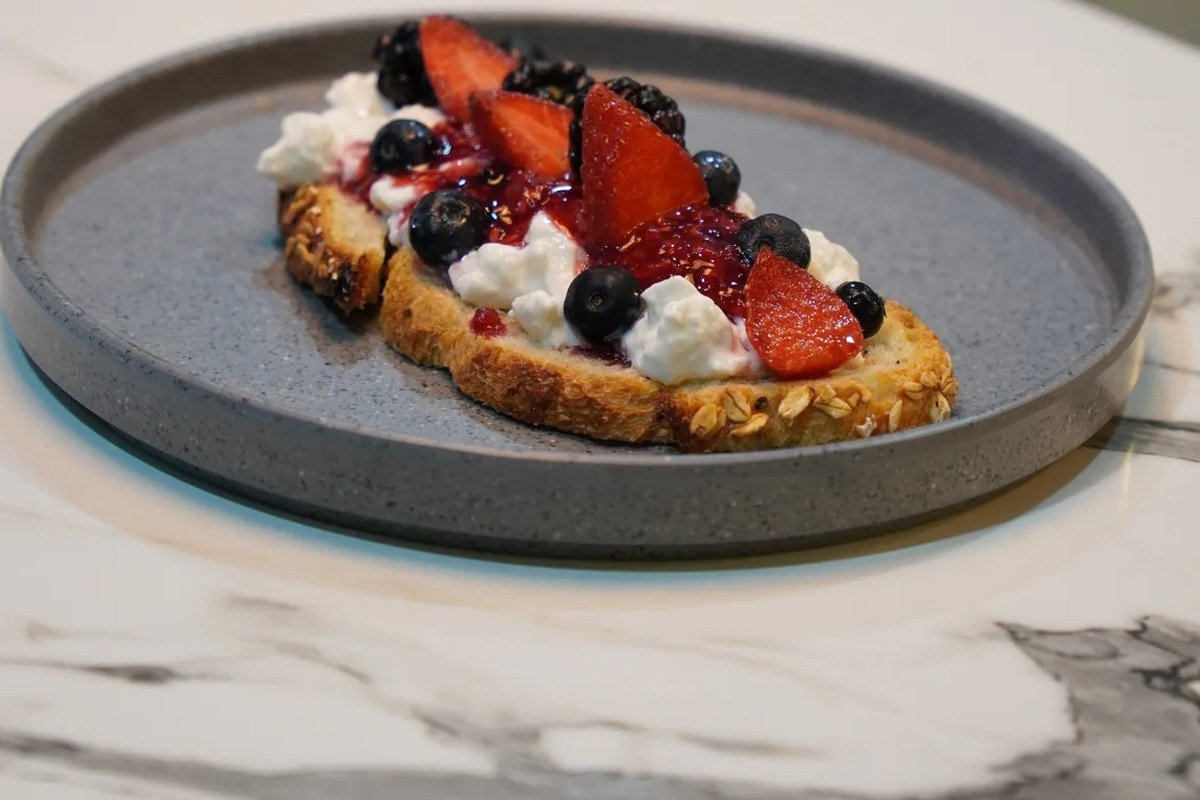
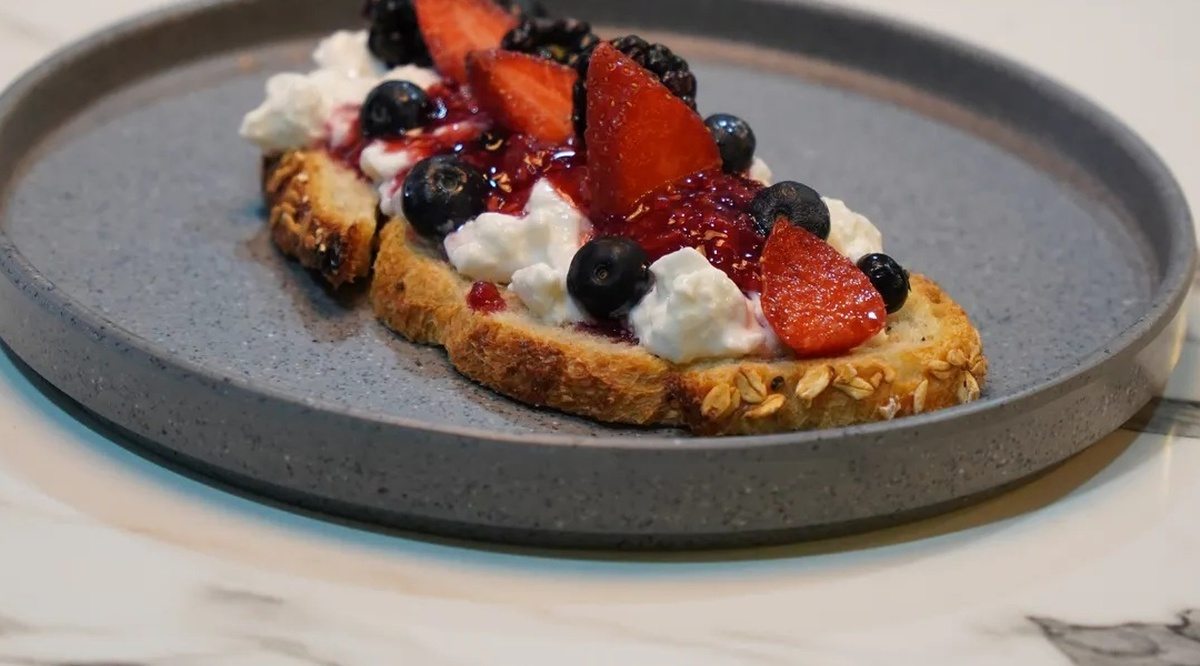
Centrar y encuadrar platillo de Toasts en el rectangulo del menu

diff --git a/cafeteria.html b/cafeteria.html
@@ -175,7 +175,7 @@
 
             <!-- Toasts -->
             <div class="menu-card">
-                <div class="menu-card-img" style="background-image: url('/static/images/menu/toasts.jpg?v=2');"></div>
+                <div class="menu-card-img" style="background-image: url('/static/images/menu/toasts.jpg?v=3');"></div>
                 <div class="menu-card-body">
                     <h3><span class="emoji-icon"><svg width="22" height="22" viewBox="0 0 24 24" fill="none" stroke="currentColor" stroke-width="2" stroke-linecap="round" stroke-linejoin="round"><path d="M18 8h1a4 4 0 0 1 0 8h-1"></path><path d="M2 8h16v9a4 4 0 0 1-4 4H6a4 4 0 0 1-4-4V8z"></path><line x1="6" y1="1" x2="6" y2="4"></line><line x1="10" y1="1" x2="10" y2="4"></line><line x1="14" y1="1" x2="14" y2="4"></line></svg></span> Toasts</h3>
                     <div class="menu-item">

diff --git a/static/cafeteria.html b/static/cafeteria.html
@@ -175,7 +175,7 @@
 
             <!-- Toasts -->
             <div class="menu-card">
-                <div class="menu-card-img" style="background-image: url('/static/images/menu/toasts.jpg?v=2');"></div>
+                <div class="menu-card-img" style="background-image: url('/static/images/menu/toasts.jpg?v=3');"></div>
                 <div class="menu-card-body">
                     <h3><span class="emoji-icon"><svg width="22" height="22" viewBox="0 0 24 24" fill="none" stroke="currentColor" stroke-width="2" stroke-linecap="round" stroke-linejoin="round"><path d="M18 8h1a4 4 0 0 1 0 8h-1"></path><path d="M2 8h16v9a4 4 0 0 1-4 4H6a4 4 0 0 1-4-4V8z"></path><line x1="6" y1="1" x2="6" y2="4"></line><line x1="10" y1="1" x2="10" y2="4"></line><line x1="14" y1="1" x2="14" y2="4"></line></svg></span> Toasts</h3>
                     <div class="menu-item">
